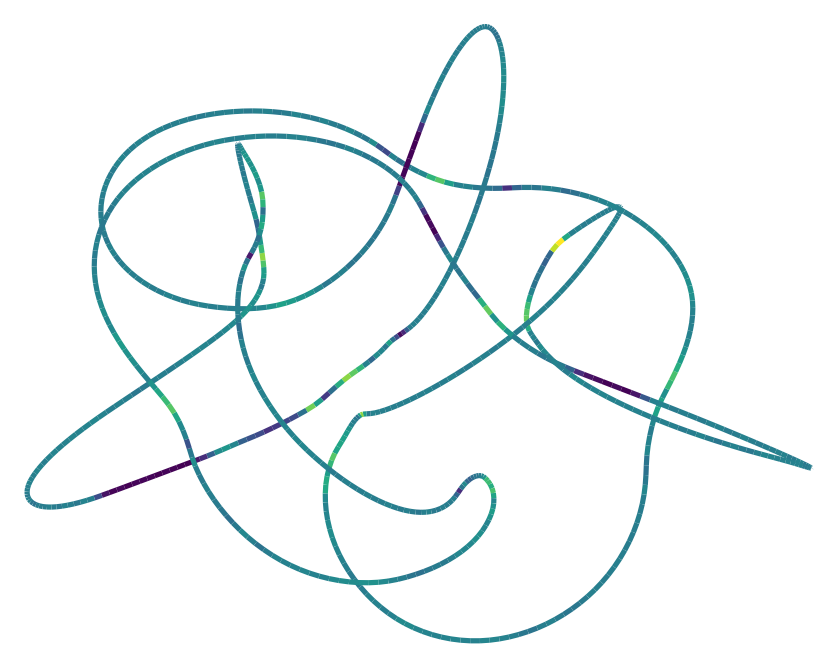
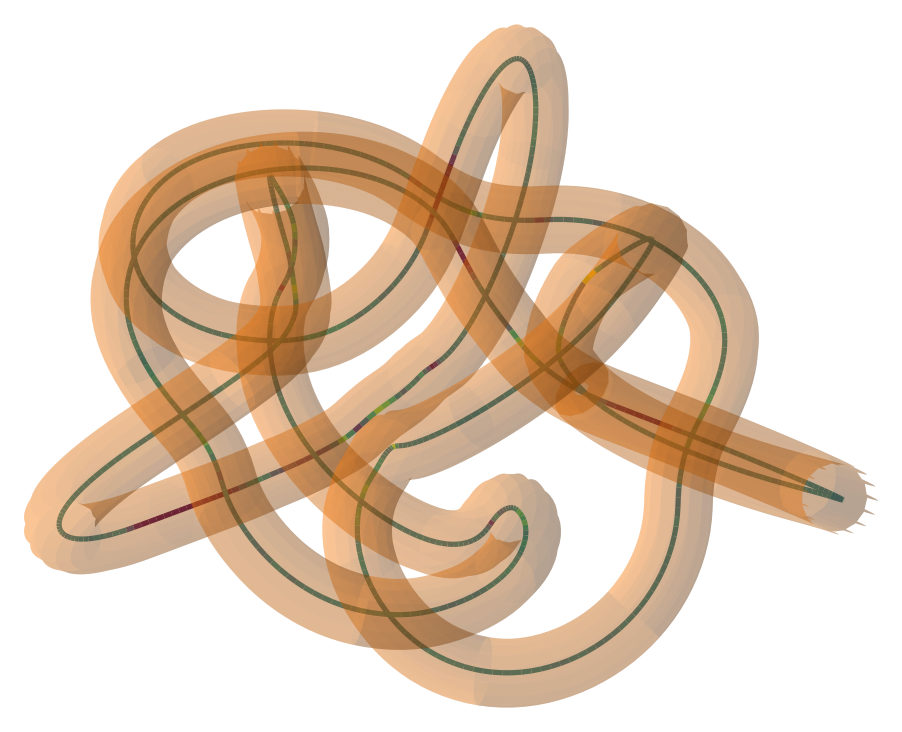
gallery: 11a2 with 24mm tube

diff --git a/README.md b/README.md
@@ -26,8 +26,8 @@ Aesthetics: Fremlin (≤8 crossings) and the parametric families are symmetric a
 </tr>
 <tr>
 <td><img src="docs/images/11a2.png" alt="11a2 ideal conformation"/><br/>
-<b>11a2</b> — a tightened "ideal" conformation, genuinely 3D (auto depth keeps its proportions)<br/>
-<code>knotgen 11a2 --width 300</code></td>
+<b>11a2</b> — a tightened "ideal" conformation, genuinely 3D (auto depth keeps its proportions), with a 24&nbsp;mm tube<br/>
+<code>knotgen 11a2 --width 300 --tube 24</code></td>
 <td><img src="docs/images/w37_racetrack.png" alt="W(3,7) racetrack braid with split crossings"/><br/>
 <b>W(3,7)</b> as a racetrack braid closure, crossings woven along both straights, 12&nbsp;mm tube preview<br/>
 <code>knotgen "W(3,7)" --layout racetrack --braid-split 0.5 --width 600 --aspect 3 --braid-fraction 0.9 --lane-gap 0.22 --depth 16 --tube 12</code></td>
